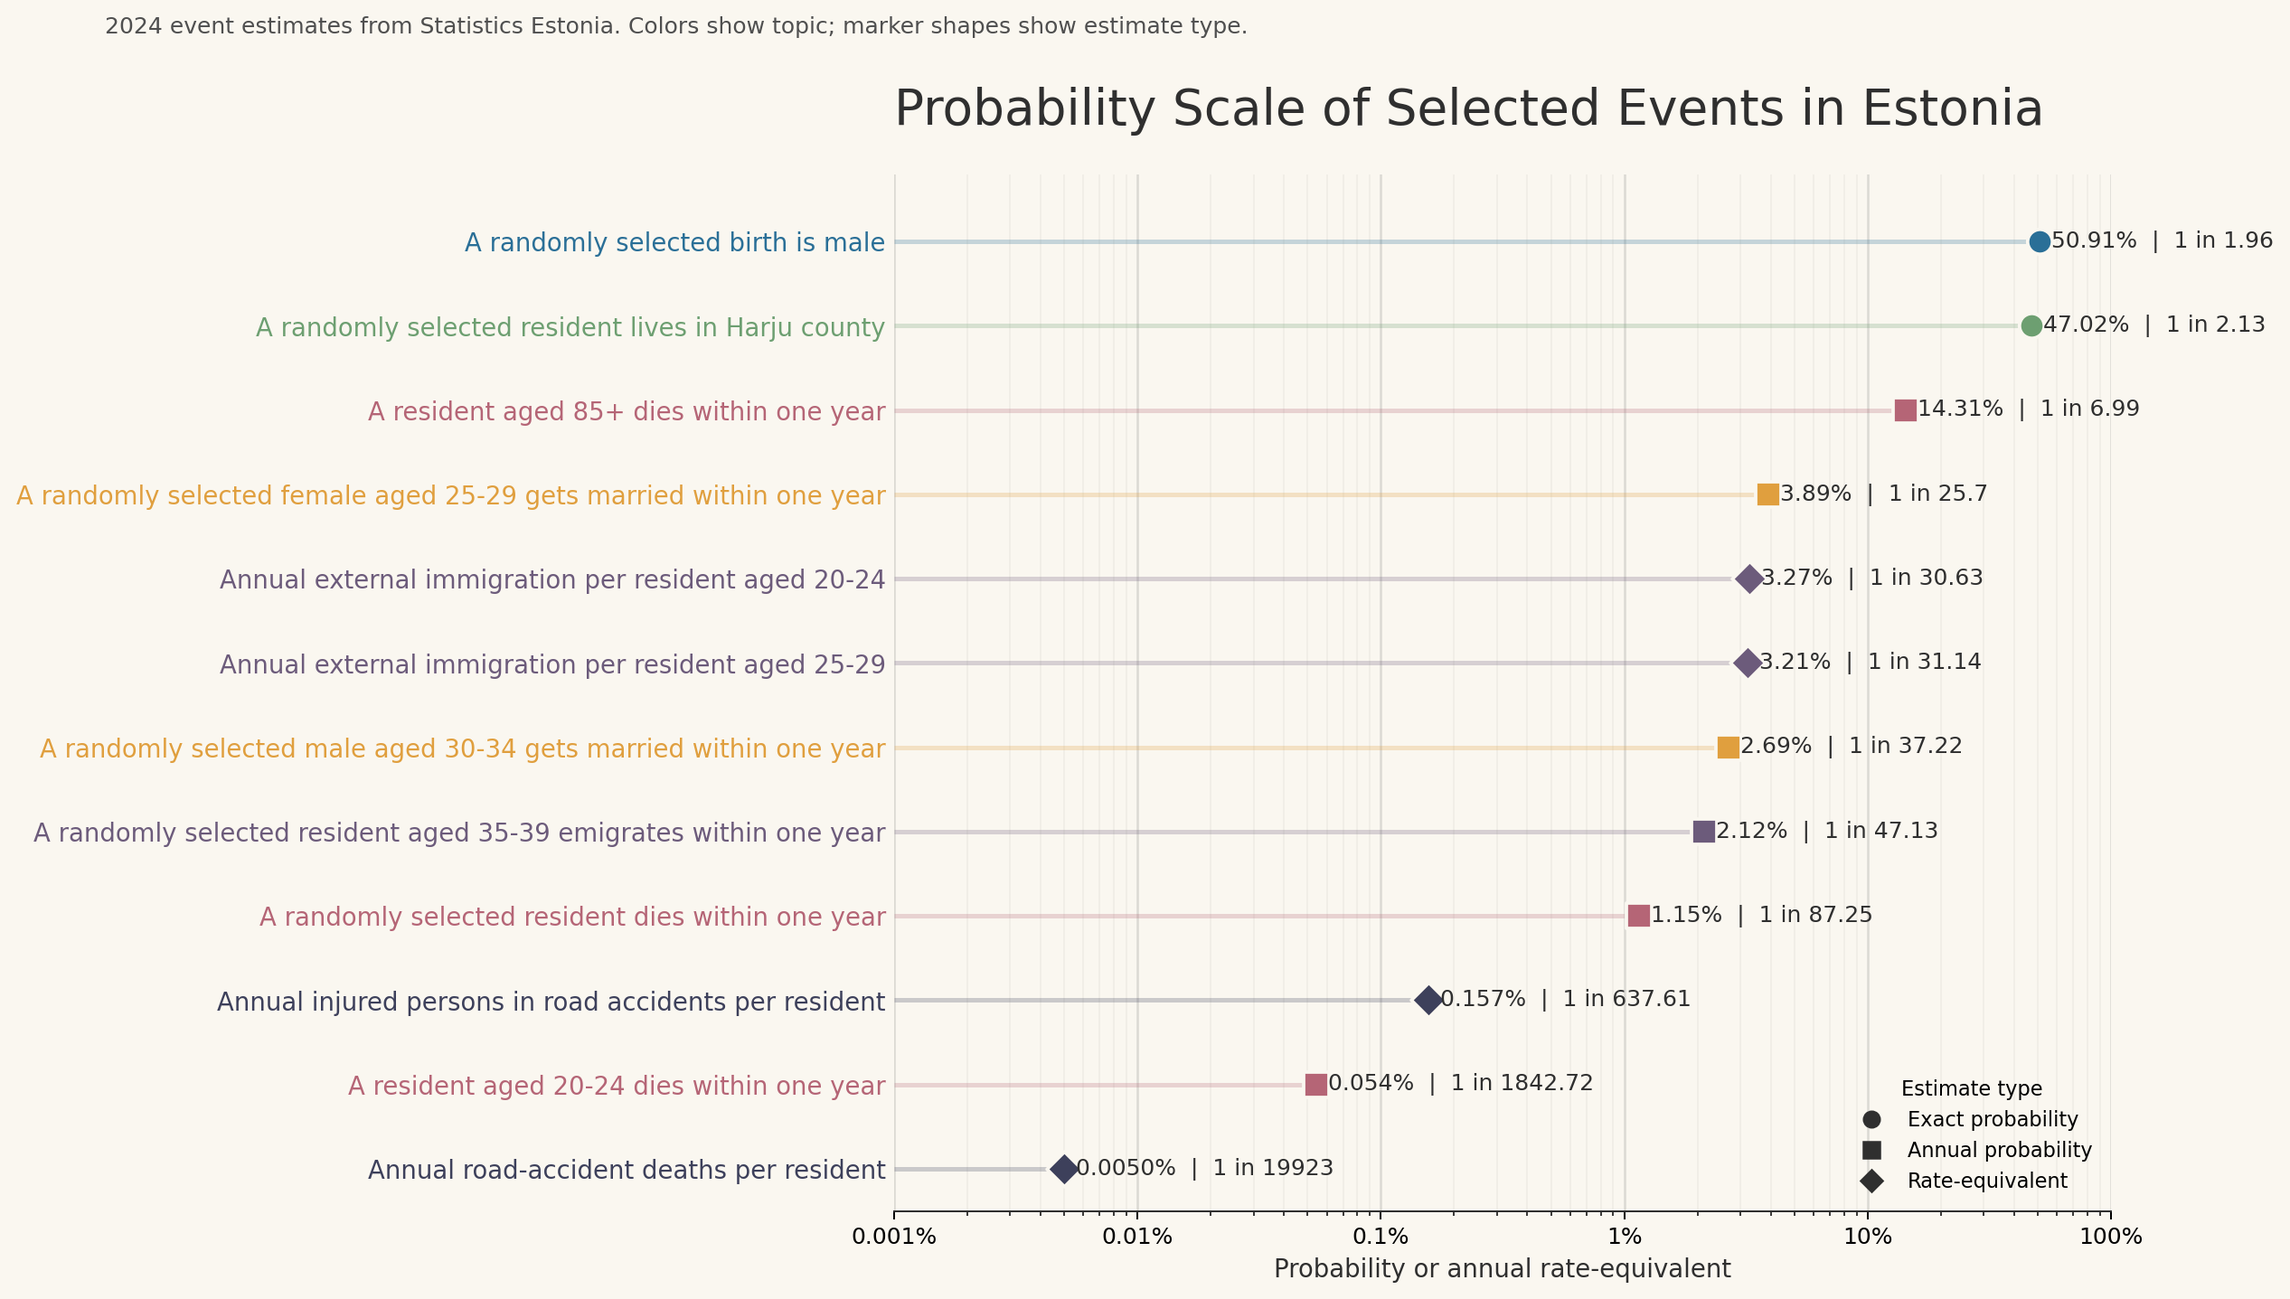
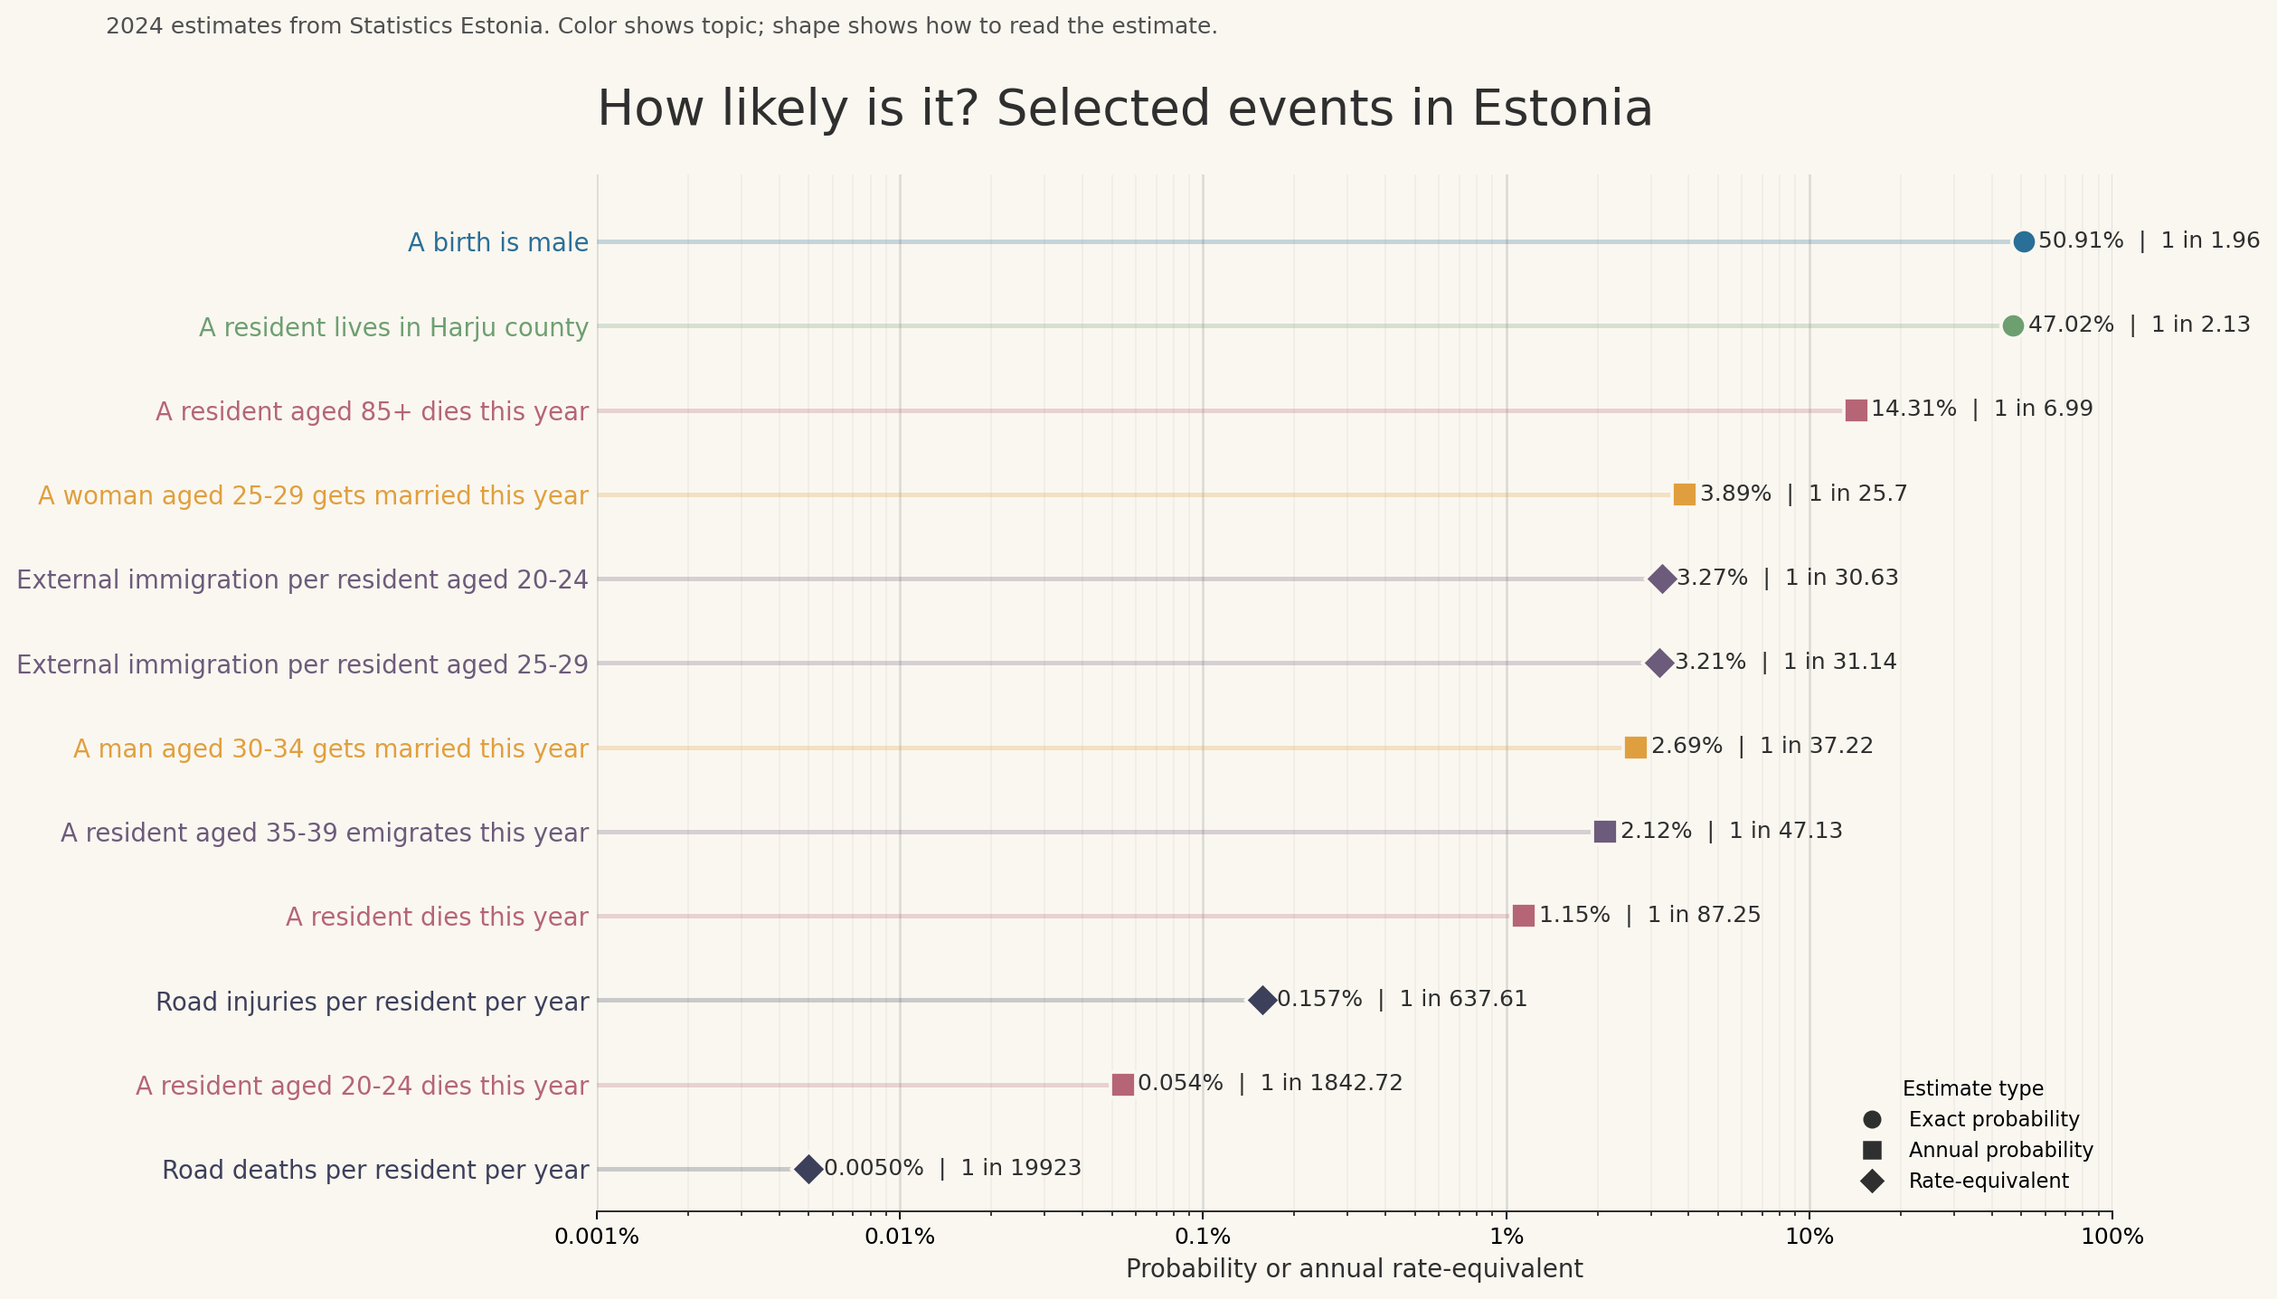
Make event code and labels more natural

diff --git a/src/build_events.py b/src/build_events.py
@@ -14,17 +14,51 @@ from src.common import format_float, format_probability, parse_int, read_csv_row
 CLEAN_DIR = PROJECT_ROOT / "data" / "processed" / "clean"
 OUTPUT_PATH = PROJECT_ROOT / "data" / "processed" / "events.csv"
 
+EVENT_COLUMNS = [
+    "event_id",
+    "event_label",
+    "category",
+    "estimate_type",
+    "year",
+    "numerator",
+    "denominator",
+    "probability",
+    "odds_1_in",
+    "notes",
+]
+
 
 @dataclass(frozen=True)
-class EventDefinition:
+class Event:
+    """One row on the probability scale.
+
+    The important part is not the formula. It is being honest about what the
+    numerator and denominator actually mean.
+    """
+
     event_id: str
-    event_label: str
+    label: str
     category: str
     estimate_type: str
     numerator: int
     denominator: int
     year: int
     notes: str
+
+    def as_row(self) -> dict[str, object]:
+        probability = self.numerator / self.denominator
+        return {
+            "event_id": self.event_id,
+            "event_label": self.label,
+            "category": self.category,
+            "estimate_type": self.estimate_type,
+            "year": self.year,
+            "numerator": self.numerator,
+            "denominator": self.denominator,
+            "probability": format_probability(probability),
+            "odds_1_in": format_float(1 / probability),
+            "notes": self.notes,
+        }
 
 
 def matching_rows(rows: list[dict[str, str]], **criteria: object) -> list[dict[str, str]]:
@@ -54,33 +88,6 @@ def single_value(rows: list[dict[str, str]], value_field: str, **criteria: objec
             f"Expected exactly one row for {criteria}, found {len(matches)}."
         )
     return parse_int(matches[0][value_field])
-
-
-def build_event_row(
-    *,
-    event_id: str,
-    event_label: str,
-    category: str,
-    estimate_type: str,
-    year: int,
-    numerator: int,
-    denominator: int,
-    notes: str,
-) -> dict[str, object]:
-    probability = numerator / denominator
-    odds = denominator / numerator
-    return {
-        "event_id": event_id,
-        "event_label": event_label,
-        "category": category,
-        "estimate_type": estimate_type,
-        "year": year,
-        "numerator": numerator,
-        "denominator": denominator,
-        "probability": format_probability(probability),
-        "odds_1_in": format_float(odds),
-        "notes": notes,
-    }
 
 
 def population_value(
@@ -187,19 +194,6 @@ def traffic_value(
     )
 
 
-def event_row(definition: EventDefinition) -> dict[str, object]:
-    return build_event_row(
-        event_id=definition.event_id,
-        event_label=definition.event_label,
-        category=definition.category,
-        estimate_type=definition.estimate_type,
-        year=definition.year,
-        numerator=definition.numerator,
-        denominator=definition.denominator,
-        notes=definition.notes,
-    )
-
-
 def build_events(clean_dir: Path = CLEAN_DIR, output_path: Path = OUTPUT_PATH) -> Path:
     population = read_csv_rows(clean_dir / "rv0282u_population.csv")
     births = read_csv_rows(clean_dir / "rv19_births.csv")
@@ -214,36 +208,44 @@ def build_events(clean_dir: Path = CLEAN_DIR, output_path: Path = OUTPUT_PATH) -
         years(population, sex="total", place="harju_county", age_group="total"),
         years(deaths, county="whole_country", age_group="total"),
         years(marriages, sex="male", marriage_type="all_marriages", age_group="30-34"),
-        years(migration, sex="total", age_group="20-24", migration_type="external_migration", metric="immigration"),
+        years(
+            migration,
+            sex="total",
+            age_group="20-24",
+            migration_type="external_migration",
+            metric="immigration",
+        ),
         years(traffic, indicator="persons_injured", month="total"),
     )
 
     reference_population = population_value(population, year=analysis_year)
 
-    event_definitions = [
-        EventDefinition(
+    # This list is deliberately hand-picked. A larger automatic catalogue would
+    # be less useful if the reader cannot trust the meaning of each denominator.
+    event_rows = [
+        Event(
             event_id="birth_male",
-            event_label="A randomly selected birth is male",
+            label="A birth is male",
             category="births",
             estimate_type="exact_probability",
             year=analysis_year,
             numerator=births_value(births, year=analysis_year, sex="male"),
             denominator=births_value(births, year=analysis_year, sex="total"),
-            notes="From RV19 live births with total birth weight.",
+            notes="RV19 male live births divided by all live births.",
         ),
-        EventDefinition(
+        Event(
             event_id="resident_harju",
-            event_label="A randomly selected resident lives in Harju county",
+            label="A resident lives in Harju county",
             category="population",
             estimate_type="exact_probability",
             year=analysis_year,
             numerator=population_value(population, year=analysis_year, place="harju_county"),
             denominator=reference_population,
-            notes="From RV0282U total population by place of residence.",
+            notes="RV0282U Harju county population divided by total population.",
         ),
-        EventDefinition(
+        Event(
             event_id="death_85_plus",
-            event_label="A resident aged 85+ dies within one year",
+            label="A resident aged 85+ dies this year",
             category="mortality",
             estimate_type="annual_probability",
             year=analysis_year,
@@ -251,49 +253,49 @@ def build_events(clean_dir: Path = CLEAN_DIR, output_path: Path = OUTPUT_PATH) -
             denominator=population_value(population, year=analysis_year, age_group="85_plus"),
             notes="RV59U deaths aged 85+ divided by RV0282U population aged 85+.",
         ),
-        EventDefinition(
+        Event(
             event_id="marriage_female_25_29",
-            event_label="A randomly selected female aged 25-29 gets married within one year",
+            label="A woman aged 25-29 gets married this year",
             category="marriages",
             estimate_type="annual_probability",
             year=analysis_year,
             numerator=marriages_value(marriages, year=analysis_year, sex="female", age_group="25-29"),
             denominator=population_value(population, year=analysis_year, sex="female", age_group="25-29"),
-            notes="RV271 marriages divided by RV0282U female population aged 25-29.",
+            notes="RV271 female marriages divided by RV0282U female population aged 25-29.",
         ),
-        EventDefinition(
+        Event(
             event_id="immigration_20_24",
-            event_label="Annual external immigration per resident aged 20-24",
+            label="External immigration per resident aged 20-24",
             category="migration",
             estimate_type="rate_equivalent",
             year=analysis_year,
             numerator=migration_value(migration, year=analysis_year, metric="immigration", age_group="20-24"),
             denominator=population_value(population, year=analysis_year, age_group="20-24"),
-            notes="External immigration from RVR03 divided by RV0282U population aged 20-24. This is an inflow rate, not a resident-level probability.",
+            notes="RVR03 external immigration divided by the resident population aged 20-24; an inflow rate, not a resident probability.",
         ),
-        EventDefinition(
+        Event(
             event_id="immigration_25_29",
-            event_label="Annual external immigration per resident aged 25-29",
+            label="External immigration per resident aged 25-29",
             category="migration",
             estimate_type="rate_equivalent",
             year=analysis_year,
             numerator=migration_value(migration, year=analysis_year, metric="immigration", age_group="25-29"),
             denominator=population_value(population, year=analysis_year, age_group="25-29"),
-            notes="External immigration from RVR03 divided by RV0282U population aged 25-29. This is an inflow rate, not a resident-level probability.",
+            notes="RVR03 external immigration divided by the resident population aged 25-29; an inflow rate, not a resident probability.",
         ),
-        EventDefinition(
+        Event(
             event_id="marriage_male_30_34",
-            event_label="A randomly selected male aged 30-34 gets married within one year",
+            label="A man aged 30-34 gets married this year",
             category="marriages",
             estimate_type="annual_probability",
             year=analysis_year,
             numerator=marriages_value(marriages, year=analysis_year, sex="male", age_group="30-34"),
             denominator=population_value(population, year=analysis_year, sex="male", age_group="30-34"),
-            notes="RV271 marriages divided by RV0282U male population aged 30-34.",
+            notes="RV271 male marriages divided by RV0282U male population aged 30-34.",
         ),
-        EventDefinition(
+        Event(
             event_id="emigration_35_39",
-            event_label="A randomly selected resident aged 35-39 emigrates within one year",
+            label="A resident aged 35-39 emigrates this year",
             category="migration",
             estimate_type="annual_probability",
             year=analysis_year,
@@ -301,9 +303,9 @@ def build_events(clean_dir: Path = CLEAN_DIR, output_path: Path = OUTPUT_PATH) -
             denominator=population_value(population, year=analysis_year, age_group="35-39"),
             notes="External emigration from RVR03 divided by RV0282U population aged 35-39.",
         ),
-        EventDefinition(
+        Event(
             event_id="death_any",
-            event_label="A randomly selected resident dies within one year",
+            label="A resident dies this year",
             category="mortality",
             estimate_type="annual_probability",
             year=analysis_year,
@@ -311,19 +313,19 @@ def build_events(clean_dir: Path = CLEAN_DIR, output_path: Path = OUTPUT_PATH) -
             denominator=reference_population,
             notes="Deaths from RV59U divided by total population from RV0282U.",
         ),
-        EventDefinition(
+        Event(
             event_id="road_injury_equivalent",
-            event_label="Annual injured persons in road accidents per resident",
+            label="Road injuries per resident per year",
             category="traffic",
             estimate_type="rate_equivalent",
             year=analysis_year,
             numerator=traffic_value(traffic, year=analysis_year, indicator="persons_injured"),
             denominator=reference_population,
-            notes="TS093 injured persons count per resident. This is a rate-based equivalent, not a unique-person probability.",
+            notes="TS093 injured-person count per resident; a rate, not a unique-person probability.",
         ),
-        EventDefinition(
+        Event(
             event_id="death_20_24",
-            event_label="A resident aged 20-24 dies within one year",
+            label="A resident aged 20-24 dies this year",
             category="mortality",
             estimate_type="annual_probability",
             year=analysis_year,
@@ -331,36 +333,21 @@ def build_events(clean_dir: Path = CLEAN_DIR, output_path: Path = OUTPUT_PATH) -
             denominator=population_value(population, year=analysis_year, age_group="20-24"),
             notes="RV59U deaths aged 20-24 divided by RV0282U population aged 20-24.",
         ),
-        EventDefinition(
+        Event(
             event_id="road_death_equivalent",
-            event_label="Annual road-accident deaths per resident",
+            label="Road deaths per resident per year",
             category="traffic",
             estimate_type="rate_equivalent",
             year=analysis_year,
             numerator=traffic_value(traffic, year=analysis_year, indicator="persons_killed"),
             denominator=reference_population,
-            notes="TS093 persons killed count per resident. This is a rate-based equivalent, not a unique-person probability.",
+            notes="TS093 road-death count per resident; a rate, not a unique-person probability.",
         ),
     ]
 
-    events = [event_row(definition) for definition in event_definitions]
+    events = [event.as_row() for event in event_rows]
 
-    write_csv_rows(
-        output_path,
-        [
-            "event_id",
-            "event_label",
-            "category",
-            "estimate_type",
-            "year",
-            "numerator",
-            "denominator",
-            "probability",
-            "odds_1_in",
-            "notes",
-        ],
-        events,
-    )
+    write_csv_rows(output_path, EVENT_COLUMNS, events)
     return output_path
 
 

diff --git a/src/plot_probability_scale.py b/src/plot_probability_scale.py
@@ -22,7 +22,7 @@ from src.common import read_csv_rows
 EVENTS_PATH = PROJECT_ROOT / "data" / "processed" / "events.csv"
 OUTPUT_DIR = PROJECT_ROOT / "outputs"
 
-CATEGORY_COLORS = {
+TOPIC_COLORS = {
     "births": "#2A6F97",
     "population": "#6D9F71",
     "mortality": "#B56576",
@@ -74,6 +74,12 @@ def probability_tick_formatter(value: float, _pos: int) -> str:
 
 
 def build_plot(events_path: Path = EVENTS_PATH, output_dir: Path = OUTPUT_DIR) -> tuple[Path, Path]:
+    """Draw the final chart.
+
+    A log axis is doing most of the storytelling here: it lets a one-in-two
+    event and a one-in-twenty-thousand event live on the same page.
+    """
+
     rows = read_csv_rows(events_path)
     if not rows:
         raise ValueError("Events file is empty.")
@@ -108,7 +114,7 @@ def build_plot(events_path: Path = EVENTS_PATH, output_dir: Path = OUTPUT_DIR) -
 
     for row, y in zip(rows, y_positions, strict=False):
         probability = float(row["probability"])
-        color = CATEGORY_COLORS.get(row["category"], "#2F2F2F")
+        color = TOPIC_COLORS.get(row["category"], "#2F2F2F")
         marker = ESTIMATE_MARKERS.get(row["estimate_type"], "o")
         ax.hlines(y, x_min, probability, color=color, alpha=0.25, linewidth=2)
         ax.scatter(
@@ -139,18 +145,18 @@ def build_plot(events_path: Path = EVENTS_PATH, output_dir: Path = OUTPUT_DIR) -
     ax.set_yticks(y_positions)
     ax.set_yticklabels(labels, fontsize=11)
     for tick, row in zip(ax.get_yticklabels(), rows, strict=False):
-        tick.set_color(CATEGORY_COLORS.get(row["category"], "#2F2F2F"))
+        tick.set_color(TOPIC_COLORS.get(row["category"], "#2F2F2F"))
     ax.xaxis.set_major_formatter(FuncFormatter(probability_tick_formatter))
     ax.grid(axis="x", which="major", color="#2F2F2F", alpha=0.15, linewidth=1)
     ax.grid(axis="x", which="minor", color="#2F2F2F", alpha=0.06, linewidth=0.6)
     ax.tick_params(axis="y", length=0)
     ax.set_xlabel("Probability or annual rate-equivalent", fontsize=11, color="#2F2F2F")
-    ax.set_title("Probability Scale of Selected Events in Estonia", fontsize=22, loc="left", color="#2F2F2F", pad=22)
+    ax.set_title("How likely is it? Selected events in Estonia", fontsize=22, loc="left", color="#2F2F2F", pad=22)
 
     fig.text(
         0.125,
         0.93,
-        f"{year_label} event estimates from Statistics Estonia. Colors show topic; marker shapes show estimate type.",
+        f"{year_label} estimates from Statistics Estonia. Color shows topic; shape shows how to read the estimate.",
         fontsize=10,
         color="#4F4F4F",
     )

diff --git a/README.md b/README.md
@@ -16,10 +16,10 @@ real Estonian data.
 
 Examples in the final table:
 
-- a randomly selected birth is male
-- a randomly selected resident lives in Harju county
-- a resident aged 85+ dies within one year
-- a female aged 25-29 gets married within one year
+- a birth is male
+- a resident lives in Harju county
+- a resident aged 85+ dies this year
+- a woman aged 25-29 gets married this year
 - annual road-accident deaths per resident
 
 ## Data
@@ -76,12 +76,3 @@ py -3 -m unittest discover -v
 - `outputs/probability_scale.png` - final chart preview
 - `src/` - cleaning, calculation and plotting code
 - `tests/` - small tests for query building and formatting
-
-## AI Use
-
-AI was used for coding and wording assistance. Event definitions, denominators
-and final outputs were manually reviewed.
-
-## License
-
-MIT. See [LICENSE](LICENSE).
